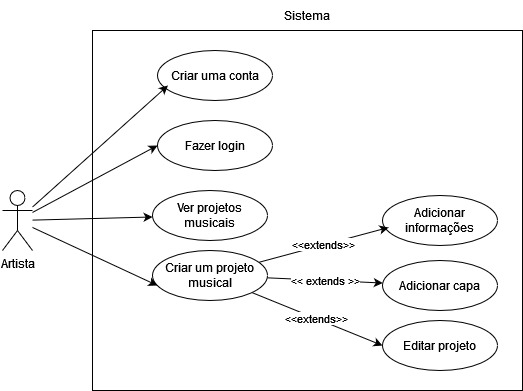
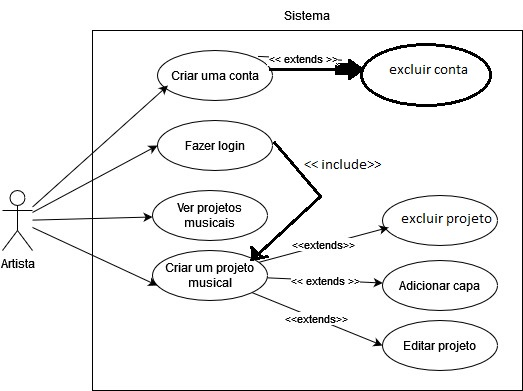
Atualização para banco de dados

diff --git a/static/estilo.css b/static/estilo.css
@@ -120,44 +120,49 @@ body#home {
     justify-content: center;
     gap: 20px;
     margin-top: 10px;
-  }
+}
   
-  .card {
-    width: 200px;
+.card {
+    display: flex;
+    width: 400px;
     height: 200px;
     background-color: #ffffff;
     border-radius: 12px;
     box-shadow: 0 4px 8px rgba(0, 0, 0, 0.2);
     overflow: hidden;
-    transition: transform 0.3s;
+    transition: transform 0.3s, background-color 0.3s;
     cursor: pointer;
+    position: relative;
+}
+  
+.card:hover {
+    transform: scale(1.05);
+}
+
+.cover {
+    width: 200px; /* quadrado */
+    height: 200px;
+    object-fit: cover;
+    flex-shrink: 0; /* Não deixa a imagem encolher */
+}
+  
+.card-content {
+    padding: 20px;
     display: flex;
     flex-direction: column;
-    justify-content: space-between;
-  }
-  
-  .card:hover {
-    transform: scale(1.05);
-  }
-  
-  .cover {
-    width: 100%;
-    height: 60%;
-    object-fit: cover;
-  }
-  
-  .card-content {
-    padding: 10px;
+    justify-content: center;
+    align-items: flex-start;
     text-align: left;
-  }
+    flex: 1; /* Ocupa o resto do espaço */
+}
+
+.card-content h3 {
+    font-size: 20px;
+    color: #0077cc;
+    margin-bottom: 8px;
+}
   
-  .card-content h3 {
-    font-size: 18px;
-    color: #0077cc; /* Azul */
-    margin-bottom: 5px;
-  }
-  
-  .card-content p {
+.card-content p {
     font-size: 14px;
     color: #666;
-  }
+}

diff --git a/templates/home.html b/templates/home.html
@@ -19,20 +19,22 @@
         <div class="cards-container">
           <!-- Card de projeto musical -->
           <div class="card">
-            <img src="static/img/capa1.jpeg" alt="Capa do Projeto" class="cover">
+            <img src="/static/img/capa1.jpeg" alt="Capa do Projeto" class="cover">
             <div class="card-content">
               <h3>Nome da Música</h3>
               <p>Artista: Seu Nome</p>
-              <p>Status: Em andamento</p>
+              <p>Status: Em composição</p>
+              <p>Letra: Viciado em adrenalina, só sinto amor quando a gente briga...</p>
             </div>
           </div>
   
           <div class="card">
-            <img src="static/img/capa2.jpeg" alt="Capa do Projeto" class="cover">
+            <img src="/static/img/capa2.jpeg" alt="Capa do Projeto" class="cover">
             <div class="card-content">
               <h3>Outra Música</h3>
               <p>Artista: Seu Nome</p>
-              <p>Status: Em edição</p>
+              <p>Status: Em gravação</p>
+              <p>Letra: Eu te levei para meu templo, vulnerável com meus sentimentos...</p>
             </div>
           </div>
   

diff --git a/database.py b/database.py
@@ -1,16 +1,5 @@
 import sqlite3
 
-# Função que conecta o banco de dados
-def conectar_banco ():
-    # Conectar ao banco ou criar se não existir
-    conexao = sqlite3.connect('meu_banco.db')
-    cursor = conexao.cursor()
-    cursor.execute('''CREATE TABLE IF NOT EXISTS usuarios
-    (id INTEGER PRIMARY KEY, usuario TEXT, senha TEXT, email TEXT)''')
-
-    # Confirmando as alterações
-    conexao.commit()
-
 # PARTE PRINCIPAL DO PROGRAMA
 if __name__ == '__main__':
-    conectar_banco()
+    print("Hello, world!")

diff --git a/app.py b/app.py
@@ -2,12 +2,10 @@ from flask import Flask, render_template, request, url_for, redirect, flash
 app = Flask(__name__)
 app.secret_key = "chave_muito_segura"
 
-# Cria uma lista e usuários e senha, depois vamos pegar no DB
+# Cria um dicionário e usuários e senha, SERÁ MIGRADO PARA O BANCO DE DADOS
 usuarios = {
-    'admin' : 'admin',
     'usuario' : 'senha',
-    'rafaela' : '111111',
-    'heitor' : '1271'
+    'admin' : 'admin'
 }
 
 @app.route('/') #rota para a página inicial

diff --git a/README.md b/README.md
@@ -9,6 +9,78 @@ Plataforma de organização e criação musical, voltada para artistas e músico
 - *Frontend*: HTML, CSS e JavaScript
 - *Banco de Dados*: SQLite3 com Python
 
+Que demais esse projeto, ficou super criativo! 🎶✨  
+Adorei o conceito do **MelodiaLab**! Vou fazer agora um resumo organizado, no mesmo estilo daquele que você gostou:
+
+---
+
+# 🎶 Projeto MelodiaLab
+
+**Descrição:**  
+Plataforma de organização e criação musical, voltada para artistas e músicos que desejam criar, gerenciar e personalizar seus projetos musicais.
+
+---
+
+## 🛠 Tecnologias
+- Python
+- Flask
+- HTML + CSS
+- SQLite (para o banco de dados)
+
+---
+
+## ✅ Casos de Uso
+
+1. **Criar Conta**  
+   - Formulário: Nome, E-mail, Senha.  
+   - Cadastro na tabela de usuários.
+
+2. **Fazer Login**  
+   - Verificação de e-mail e senha.
+   - Se válido, manter login com sessão (`session` do Flask).
+
+3. **Excluir Conta**  
+   - Remover usuário da tabela.
+   - Remover todos os projetos musicais ligados a esse usuário.
+
+4. **Criar Projetos Musicais**  
+   - Formulário: Nome da música, artista, status (ex: composição, gravação, finalizada), letra.
+   - Opcional: Upload de uma capa de imagem.
+
+5. **Ver Projetos Musicais**  
+   - Exibir em cards com capa, nome da música, artista, status e trecho da letra.
+
+6. **Excluir Projeto Musical**  
+   - Botão de deletar projeto associado ao usuário.
+
+7. **Adicionar Capa ao Projeto Musical**  
+   - Upload de imagem (.jpg, .png) e associação ao projeto.
+
+8. **Editar Projeto Musical**  
+   - Alterar informações: nome da música, artista, status, letra, capa.
+
+---
+
+## 🗃 Diagrama Banco de Dados
+
+**Tabelas:**  
+
+- `usuarios`
+  - email (primary key)
+  - nome
+  - senha
+
+- `projetos_musicais`
+  - id (primary key)
+  - nome_musica
+  - artista
+  - status
+  - letra
+  - caminho_capa (para o arquivo de imagem)
+  - email_usuario (foreign key ligando ao usuário)
+
+---
+
 ## Diagrama de classes
 ![Diagrama de Classes](/Diagrama%20de%20Classes.jpg)
 
